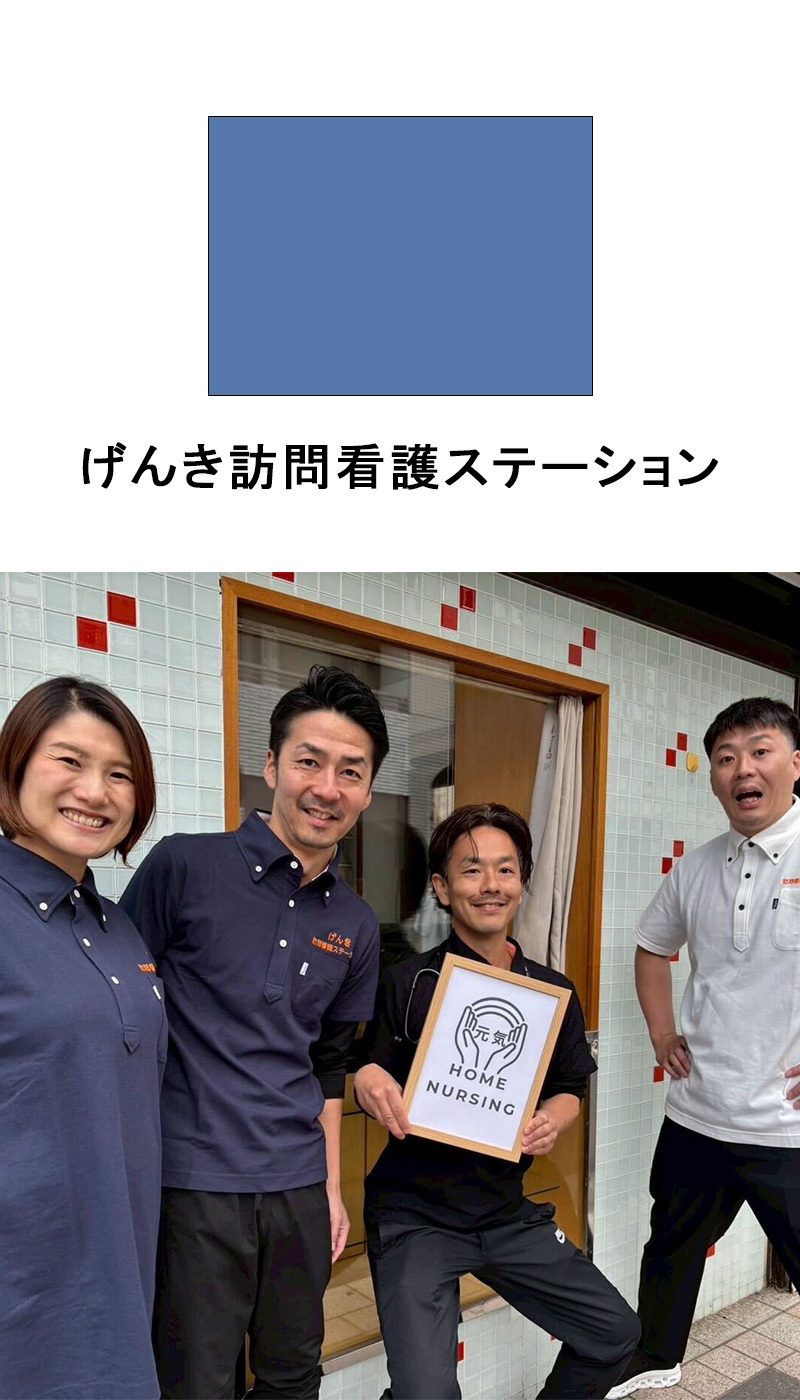
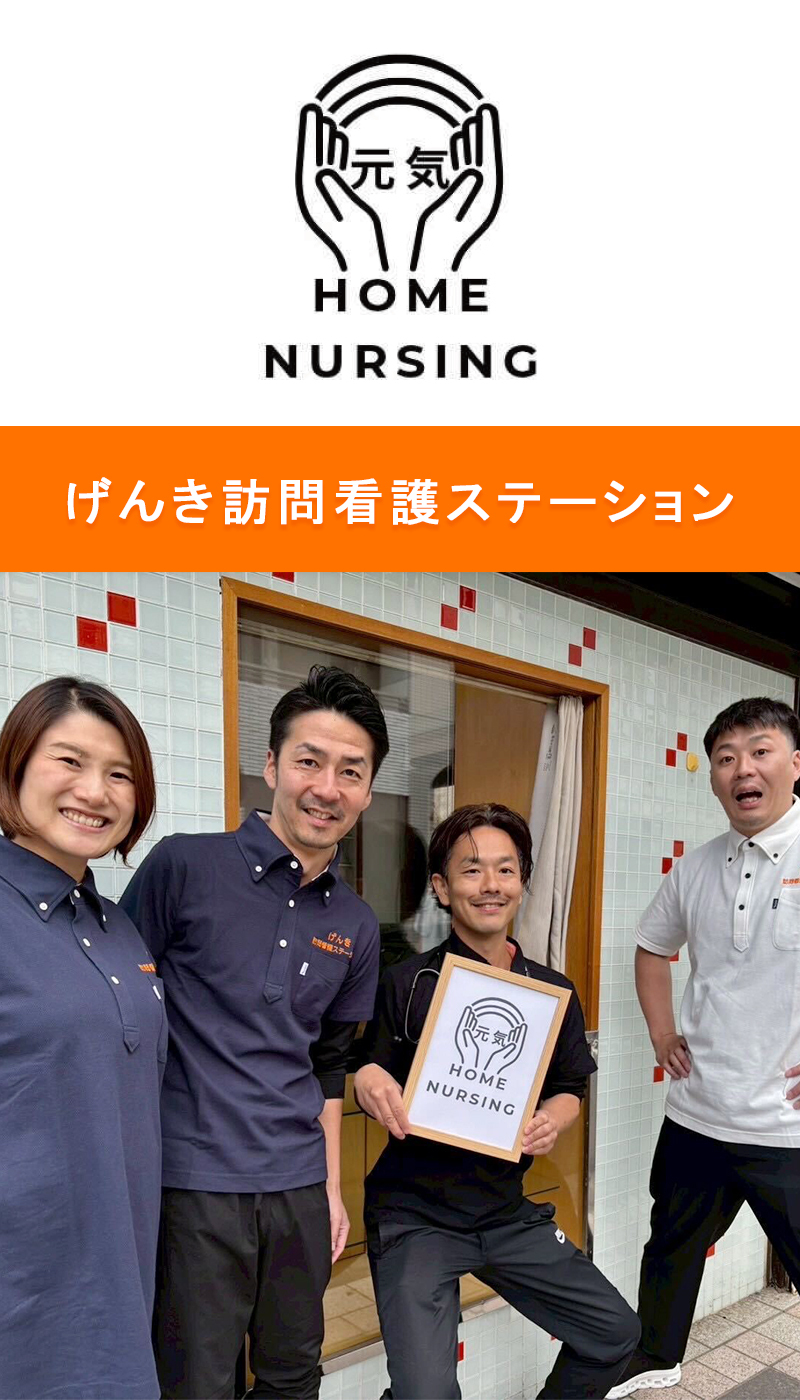
全体調整

Changed region(s): [[0.0, 0.0307, 1.0, 0.43]]

diff --git a/src/components/common/pages/Genki/Mv.tsx b/src/components/common/pages/Genki/Mv.tsx
@@ -4,7 +4,6 @@ import { breakpoints } from "../../../../styles/breakpoints";
 
 const PCmv = require("../../../../assets/images/genki/mv.jpg");
 const SPmv = require("../../../../assets/images/genki/spMv.jpg");
-const logo = require("../../../../assets/images/genki/genki_logo.png");
 
 const MainVisualWrap = styled.section`
   position: relative;
@@ -27,11 +26,11 @@ const PCMainVisual = styled.div<{ mvImage: string }>`
 const SPMainVisual = styled.div<{ mvImage: string }>`
   display: none;
   width: 100%;
-  height: calc(100vh - 70px);
+  height: 600px;
   margin: 0 auto;
   background: no-repeat url(${(props) => props.mvImage});
   background-size: cover;
-  background-position: center;
+  background-position: center top;
 
   @media (max-width: ${breakpoints.sp}) {
     display: block;
@@ -47,27 +46,29 @@ const Title = styled.h3`
   margin: 0 40px 0;
   line-height: 1.6;
   color: #fff;
+  word-break: keep-all;
 
   @media (max-width: ${breakpoints.tablet}) {
     font-size: 40px;
   }
 
   @media (max-width: ${breakpoints.sp}) {
-    top: 60%;
+    top: 80%;
+    margin-left: 20px;
     font-size: 20px;
   }
 `;
 
 const Title1 = styled.span`
   display: inline-block;
-  background: #ff7f50;
+  background: #ff6600;
 `;
 
 const Title2 = styled.span`
   display: inline-block;
   margin-top: 12px;
   margin-left: 10%;
-  background: #ff7f50;
+  background: #ff6600;
 `;
 
 export const Mv = () => {

diff --git a/src/components/pages/Price.tsx b/src/components/pages/Price.tsx
@@ -10,6 +10,10 @@ import { ScrollToTop } from "../common/ScrollToTop";
 export const Price = () => {
   const Container = styled.section`
     padding-top: 76px; // header分余白を取ってる
+
+    @media (max-width: ${breakpoints.sp}) {
+      padding-top: 74px;
+    }
   `;
 
   const Contents = styled.div`
@@ -25,7 +29,7 @@ export const Price = () => {
     font-size: 24px;
     font-weight: bold;
     margin: 0;
-    color: #ff7f50;
+    color: #ff6600;
     text-align: center;
   `;
 

diff --git a/src/components/pages/Company.tsx b/src/components/pages/Company.tsx
@@ -13,6 +13,10 @@ const ceo = require("../../assets/images/company/ceo.jpg");
 export const Company = () => {
   const Container = styled.section`
     padding-top: 76px; // header分余白を取ってる
+
+    @media (max-width: ${breakpoints.sp}) {
+      padding-top: 74px;
+    }
   `;
 
   const ContentInner = styled.div`

diff --git a/src/components/pages/Home.tsx b/src/components/pages/Home.tsx
@@ -12,6 +12,10 @@ import { Business } from "../common/pages/Home/Business";
 
 const Container = styled.section`
   padding-top: 76px; // header分余白を取ってる
+
+  @media (max-width: ${breakpoints.sp}) {
+    padding-top: 74px;
+  }
 `;
 
 const ContentInner = styled.div`

diff --git a/src/components/pages/Genki.tsx b/src/components/pages/Genki.tsx
@@ -14,6 +14,10 @@ import { ScrollToTop } from "../common/ScrollToTop";
 
 const Container = styled.section`
   padding-top: 76px; // header分余白を取ってる
+
+  @media (max-width: ${breakpoints.sp}) {
+    padding-top: 74px;
+  }
 `;
 
 const ContentInner = styled.div`

diff --git a/src/components/common/PageHeading.tsx b/src/components/common/PageHeading.tsx
@@ -16,7 +16,7 @@ const HeadingContent = styled.h2`
   font-size: 32px;
   font-weight: bold;
   padding-bottom: 4px;
-  border-bottom: 2px solid #ff7f50;
+  border-bottom: 2px solid #ff6600;
   margin: 0;
   color: white; /* 文字色を白に */
 `;

diff --git a/src/components/common/Heading.tsx b/src/components/common/Heading.tsx
@@ -12,7 +12,7 @@ const HeadingContent = styled.h2`
   font-size: 32px;
   font-weight: bold;
   padding-bottom: 4px;
-  border-bottom: 3px solid #ff7f50;
+  border-bottom: 3px solid #ff6600;
   margin: 0;
 
   @media (max-width: ${breakpoints.sp}) {

diff --git a/src/components/common/pages/Genki/Point.tsx b/src/components/common/pages/Genki/Point.tsx
@@ -65,7 +65,7 @@ const Title = styled.h3`
     left: 0;
     width: 100px;
     height: 1px;
-    background: #ff7f50;
+    background: #ff6600;
   }
 `;
 
